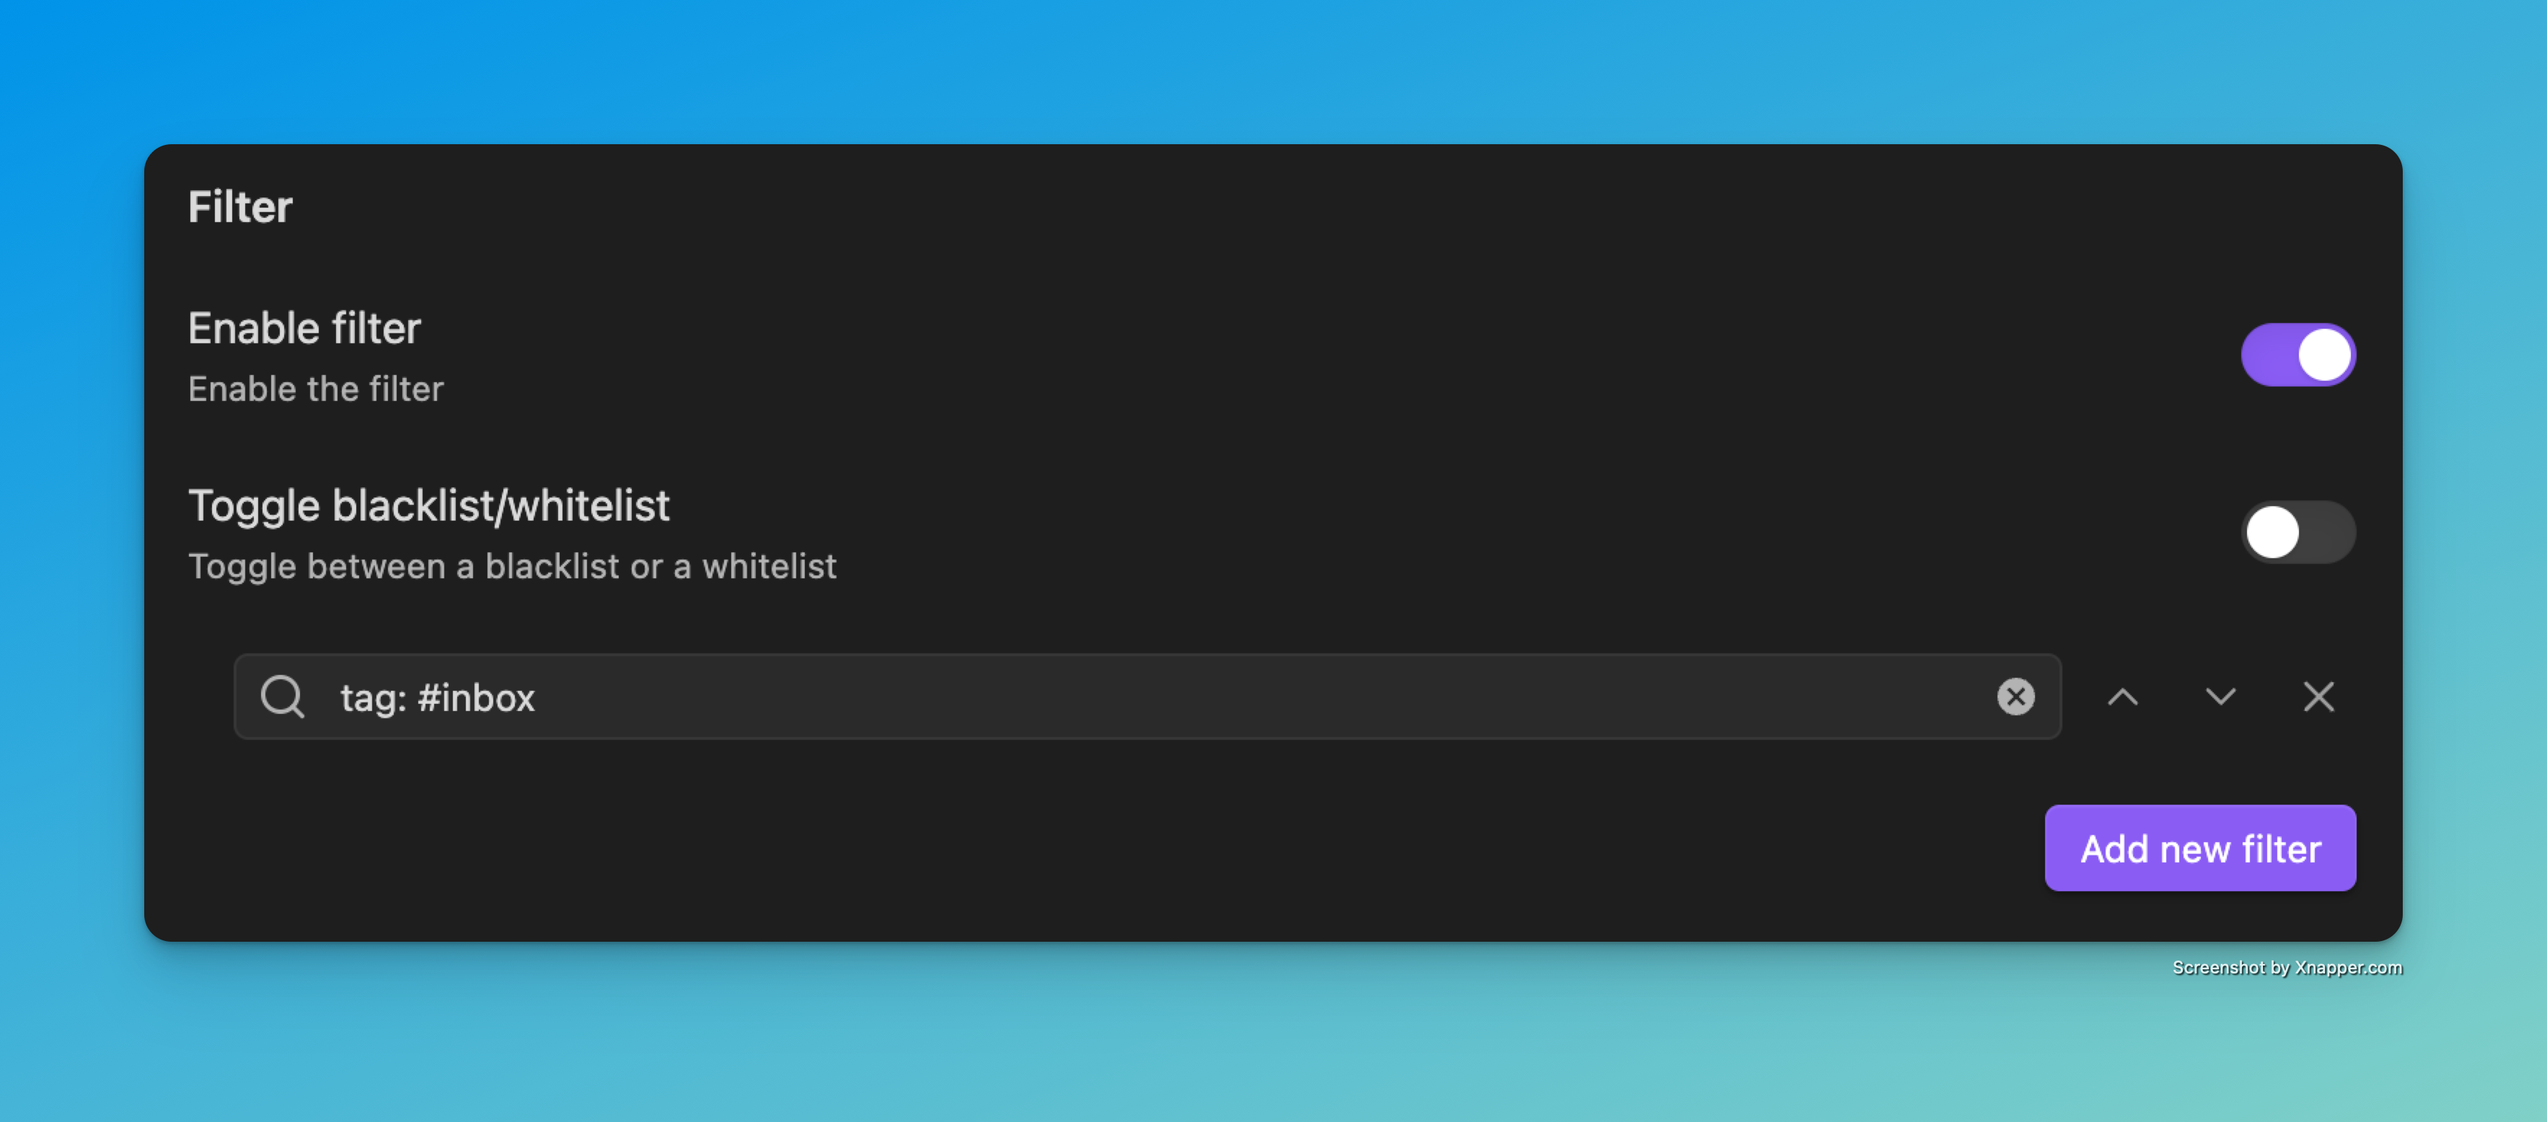
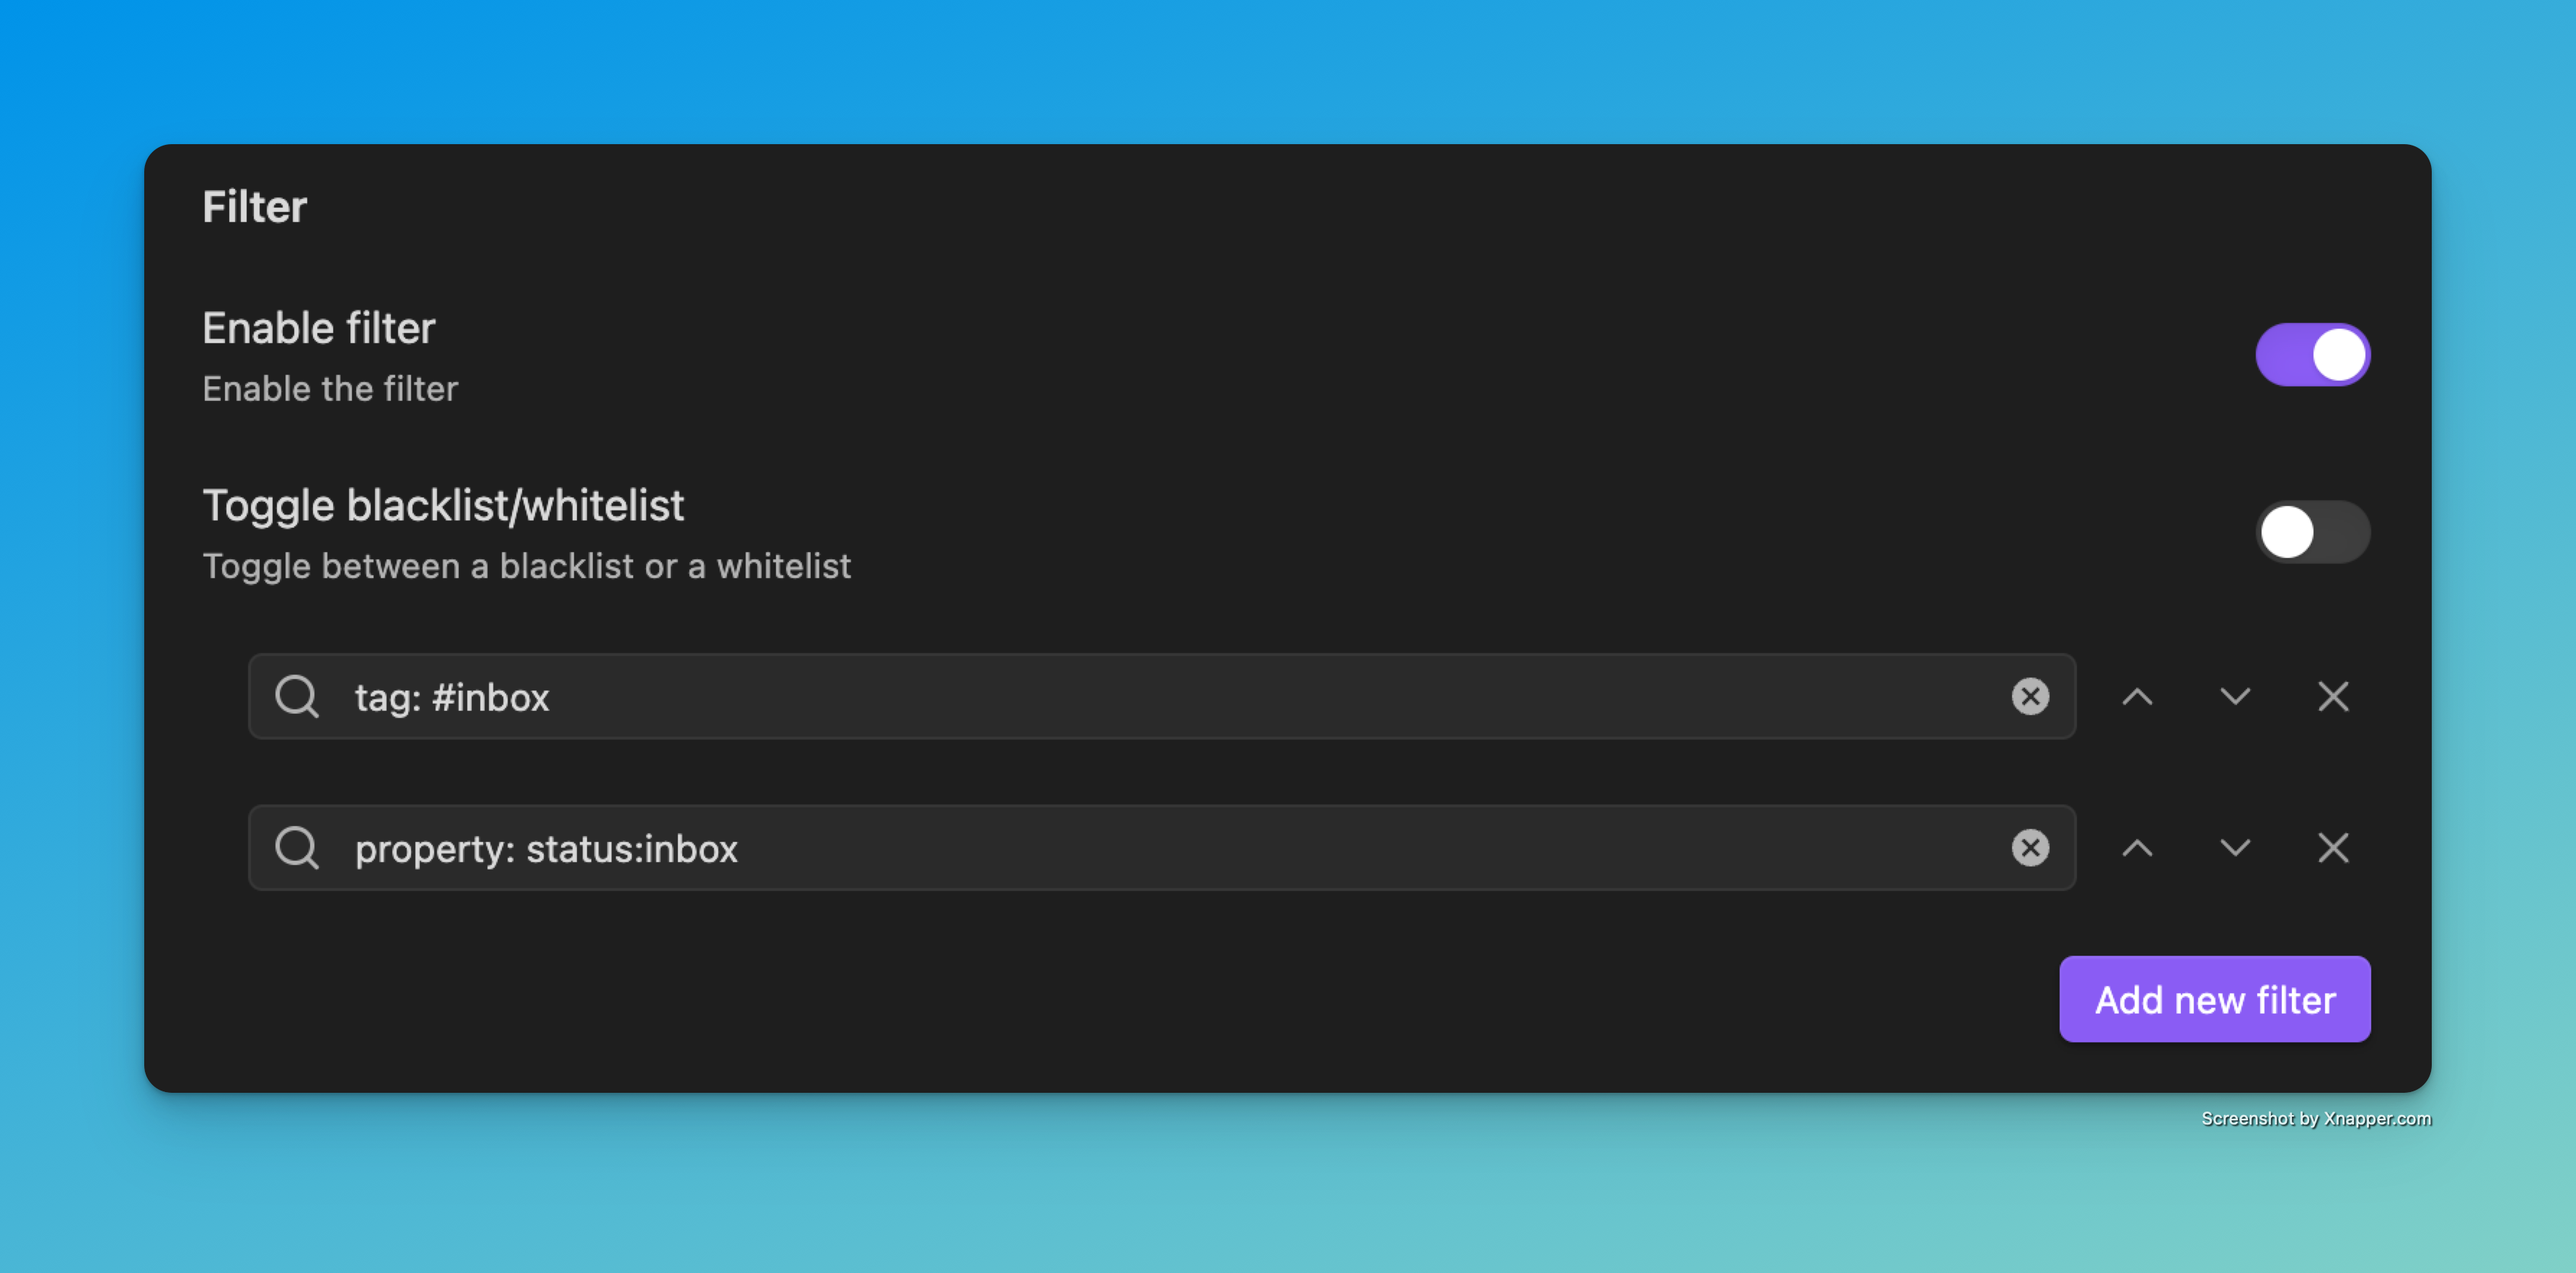
docs: Updated Readme with new features and changes

diff --git a/README.md b/README.md
@@ -4,16 +4,12 @@ NoteMover Shortcut is a plugin for [Obsidian](https://obsidian.md).
 ## Description
 The "NoteMover Shortcut" plugin streamlines your note organization in Obsidian. It offers a suite of shortcuts to:
 - **Move Single Notes**: Swiftly relocate the currently open note to a specified destination folder.
-- **Batch Move Notes**: Efficiently transfer all notes from a designated "Inbox" folder to appropriate target folders based on tags.
+- **Batch Move Notes**: Efficiently transfer all notes from a designated "Inbox" folder to appropriate target folders based on various criteria including tags, properties, file names, content, paths, and dates.
 
 ![Plugin Overview](images/noteMover-settings-overview.png)
 
 ## Difference to obsidian-auto-note-mover
 This plugin focuses on manual control with optional lightweight automation. Unlike obsidian-auto-note-mover, which automatically moves notes on every save, obsidian-note-mover-shortcut allows you to move notes via keyboard shortcut or through periodic scheduled moves.
-
-### Key differences:
-- History support – recently moved notes are tracked and can be restored with one click
-- One-click inbox sorting – move all notes from a folder (e.g. your inbox) at once via a command or shortcut
 
 ### Looking ahead:
 Large improvements are planned — especially around the rule system, which will allow for even more powerful and flexible note organization in the future.
@@ -33,19 +29,75 @@ This will further distinguish this plugin for users who want a balance between s
 
 #### Filter Settings
 ![Filter Settings](images/noteMover-settings-filter.png)
-- **Enable filter**: When enabled, you can specify which notes should be moved based on their tags.
+- **Enable filter**: When enabled, you can specify which notes should be moved based on various criteria.
 - **Toggle blacklist/whitelist**: Choose between:
-  - **Blacklist**: Move all notes EXCEPT those with specified tags
-  - **Whitelist**: Move ONLY notes with specified tags
-- **Filter tags**: Add tags to include/exclude from movement based on your blacklist/whitelist setting.
+  - **Blacklist**: Move all notes EXCEPT those matching the specified criteria
+  - **Whitelist**: Move ONLY notes matching the specified criteria
+- **Filter criteria**: Add criteria to include/exclude from movement. Supported types:
+  - **Tags**: `tag: tagname` - Match notes with specific tags (e.g., `tag: #inbox`, `tag: work/project`)
+  - **Properties**: Property-based criteria from frontmatter:
+    - `property: key` - Match notes that have the specified property key
+    - `property: key:value` - Match notes where the property key has the exact value
+    - Example: `property: status:draft`, `property: type:meeting`
+  - **File Names**: `fileName: pattern` - Match notes by filename patterns (e.g., `fileName: *.json`, `fileName: Daily`)
+  - **Content**: `content: text` - Match notes containing specific text in their content
+  - **Path**: `path: folder/path` - Match notes located in specific folder paths
+  - **Creation Date**: `created_at: date` - Match notes based on creation date
+  - **Update Date**: `updated_at: date` - Match notes based on last modification date
 
 #### Rules
 ![Rules Configuration](images/noteMover-settings-rules.png)
-- **Enable rules**: When enabled, you can define custom rules for moving notes based on their tags.
+- **Enable rules**: When enabled, you can define custom rules for moving notes based on various criteria.
 - **Rule configuration**: For each rule, specify:
-  - **Tag**: The tag that triggers the rule
-  - **Path**: The destination folder for notes with this tag
-  - Note: If a note has multiple tags that match rules, the first matching rule will be applied.
+  - **Criteria**: The criteria that triggers the rule. Supported types:
+    - **Tags**: `tag: tagname` - Trigger for notes with specific tags
+      - Supports subtags (e.g., `tag: work/project` matches both `#work/project` and `#work`)
+      - Example: `tag: meeting`, `tag: #inbox`
+    - **Properties**: `property: key` or `property: key:value` - Trigger based on frontmatter properties
+      - `property: key` - Trigger for notes that have the specified property key
+      - `property: key:value` - Trigger for notes where the property key has the exact value
+      - Example: `property: type:meeting`, `property: urgent`
+    - **File Names**: `fileName: pattern` - Trigger for notes matching filename patterns
+      - Supports wildcards (e.g., `fileName: *.json`, `fileName: Daily*`)
+      - Example: `fileName: Meeting`, `fileName: *.md`
+    - **Content**: `content: text` - Trigger for notes containing specific text
+      - Example: `content: TODO`, `content: urgent`
+    - **Path**: `path: folder/path` - Trigger for notes in specific locations
+      - Example: `path: Inbox/`, `path: Templates/`
+    - **Creation Date**: `created_at: date` - Trigger based on when the note was created
+    - **Update Date**: `updated_at: date` - Trigger based on when the note was last modified
+  - **Path**: The destination folder for notes matching this criteria
+  - Note: If a note matches multiple rules, the first matching rule will be applied.
+  - Note: Destination folders will be created automatically if they don't exist.
+
+### Example Configurations
+
+#### Advanced Rule Examples
+You can use different criteria types for sophisticated note organization:
+
+**Filter Examples**:
+- **Whitelist**: `tag: #inbox`, `property: status:draft`, `fileName: *.json`
+  - Only moves notes with the inbox tag, OR draft status, OR JSON files
+- **Blacklist**: `content: private`, `path: Archive/`
+  - Moves all notes EXCEPT those containing "private" or located in Archive folder
+
+**Rules Examples**:
+1. `property: type:meeting` → `Meetings/`
+2. `fileName: Daily*` → `Daily Notes/`
+3. `tag: work/urgent` → `Work/Priority/`
+4. `content: TODO` → `Tasks/`
+5. `path: Inbox/` → `Processed/`
+6. `created_at: 2024-01-01` → `Archive/2024/`
+
+**Complex Workflow Example**:
+- **Filter (Whitelist)**: `tag: #process`, `property: status:ready`
+- **Rules**:
+  1. `property: type:project` → `Projects/Active/`
+  2. `fileName: Meeting*` → `Meetings/`
+  3. `content: urgent` → `Priority/`
+  4. Default: `Processed/`
+
+This setup will only process notes tagged with #process OR having status:ready, then move them based on their type, filename pattern, or content.
 
 ### Hotkeys:
 - Set Hotkeys to the NoteMover Commands
@@ -57,33 +109,74 @@ This will further distinguish this plugin for users who want a balance between s
 
 ### Available Commands
 ![Available Commands](images/noteMover-commands.png)
-The plugin provides the following commands that can be accessed through the command palette or configured with custom hotkeys:
+The plugin provides the following 6 commands that can be accessed through the command palette or configured with custom hotkeys:
 
 #### Move Active Note
 - **Command ID**: `trigger-note-movement`
 - **Name**: "Move active note to note folder"
-- **Description**: Moves the currently active note to the configured note folder. If rules are enabled, the note will be moved according to its tags.
+- **Description**: Moves the currently active note to the configured note folder. If rules are enabled, the note will be moved according to its criteria. Includes preview functionality to show the destination before moving.
 - **Usage**: Open the note you want to move and execute this command.
 
 #### Bulk Move Notes
 - **Command ID**: `trigger-note-bulk-move`
 - **Name**: "Move all notes from inbox to notes folder"
 - **Description**: Moves all notes from the configured inbox folder to their respective destination folders based on the current settings:
-  - If rules are enabled, notes will be moved according to their tags
+  - If rules are enabled, notes will be moved according to their criteria
   - If filters are enabled, only notes matching the filter criteria will be moved
   - Otherwise, all notes will be moved to the default note folder
+  - **Preview**: Shows a preview of all files to be moved and their destinations before execution
 - **Usage**: Execute this command to process all notes in your inbox folder at once.
 
 #### History and Undo
-![History Modal](images/noteMover-history-modal.png)
-- **Command ID**: `show-note-mover-history`
-- **Name**: "Show NoteMover History"
+![History Modal](images/noteMover-modal-history.png)
+- **Command ID**: `show-history`
+- **Name**: "Show history"
 - **Description**: Displays a history of all note movements performed by the plugin, allowing you to review and undo previous actions.
 - **Usage**: Execute this command to open the history view, where you can:
   - View a chronological list of all note movements
   - See the source and destination paths for each move
   - Undo individual movements or bulk operations
+  - **Bulk Undo**: Select and revert multiple movements at once for efficient history management
   - Filter the history by date or operation type
+
+#### Move Preview
+![Move Preview Modal](images/noteMover-modal-movePreview.png)
+- **Feature**: File Move Preview
+- **Description**: Before executing any move operation, you can preview which files will be moved and where they will be relocated.
+- **Benefits**:
+  - **Safe Operations**: See exactly what will happen before committing to the move
+  - **Bulk Move Confidence**: Preview all files that will be processed in bulk operations
+  - **Rule Validation**: Verify that your rules and filters are working as expected
+- **Usage**: The preview functionality is automatically triggered before move operations, showing:
+  - List of files to be moved
+  - Source and destination paths for each file
+  - Applied rules or criteria for each move
+  - Option to proceed or cancel the operation
+
+#### Show Update Modal
+- **Command ID**: `show-update-modal`
+- **Name**: "Show update modal"
+- **Description**: Manually displays the update modal showing changelog information for the current version.
+- **Usage**: Execute this command to view the changelog and update information, useful for reviewing new features and changes.
+
+#### Preview Bulk Movement
+- **Command ID**: `preview-bulk-movement`
+- **Name**: "Preview bulk movement from inbox"
+- **Description**: Shows a preview of all files that would be moved from the inbox folder without actually executing the move operation.
+- **Usage**: Execute this command to:
+  - See which files would be affected by a bulk move
+  - Preview destination paths for each file
+  - Review applied rules and filters
+  - Plan your bulk operations safely
+
+#### Preview Active Note Movement
+- **Command ID**: `preview-note-movement`
+- **Name**: "Preview active note movement"
+- **Description**: Shows a preview of where the currently active note would be moved based on your current rules and settings.
+- **Usage**: Open the note you want to preview and execute this command to:
+  - See the destination path before moving
+  - Verify that rules are working as expected
+  - Make informed decisions about note placement
 
 ## Contributing:
 This plugin is open-source. Contributions are welcome!
@@ -91,7 +184,8 @@ This plugin is open-source. Contributions are welcome!
 ## Features
 - **Active Note Move**: Move the active note from the current location to the main notes folder with a single command
 - **Bulk Move**: The ability to move all notes from an "Inbox" folder to the main notes folder with a single command, saving you time and simplifying organization.
-- **Tag-Based Moving**: Move notes to different destination folders based on their tags, allowing for even more granular organization of your notes.
+- **Advanced Criteria-Based Moving**: Move notes to different destination folders based on various criteria including tags, properties (frontmatter), file names, content, paths, and dates, allowing for sophisticated note organization.
 - **Automated Moving**: A feature that periodically moves notes from the "Inbox" folder if they meet specific criteria, such as lacking an "#inbox" tag.
+- **Move Preview**: Preview which files will be moved before execution, ensuring safe and predictable operations
 - **History Tracking**: Keep track of all note movements with a detailed history view
-- **Undo Functionality**: Easily revert any note movements if needed, with support for both individual and bulk operations
+- **Undo Functionality**: Easily revert any note movements if needed, with support for both individual and bulk undo operations
